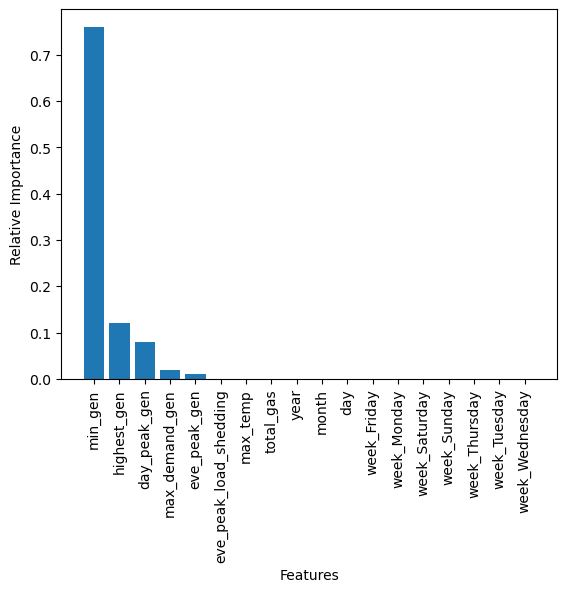
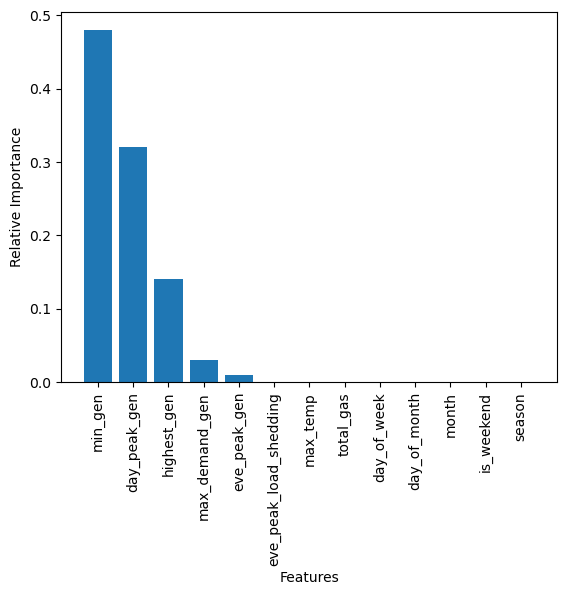
generated LSTM graphs for imp features

diff --git a/src/prediction_with_lstm_2.py b/src/prediction_with_lstm_2.py
@@ -140,8 +140,7 @@ print(len(train), len(test))
 print(train.shape, test.shape)
 
 # scaling the features for better result
-f_columns = ['max_demand_gen', 'highest_gen', 'min_gen', 'day_peak_gen', 'eve_peak_gen', 'eve_peak_load_shedding',
-             'max_temp', 'total_gas', 'day_of_week', 'day_of_month', 'month', 'is_weekend', 'season']
+f_columns = ['max_demand_gen', 'highest_gen', 'min_gen', 'day_peak_gen', 'eve_peak_gen']
 
 f_transformer = RobustScaler()
 total_energy_transformer = RobustScaler()
@@ -211,7 +210,7 @@ plt.title('training and validation loss')
 plt.xlabel('epochs')
 plt.ylabel('loss')
 plt.legend()
-plt.savefig('../assets_lstm_2/lstm_loss.png', bbox_inches='tight')
+plt.savefig('../assets_lstm_2/lstm_loss_all_feat.png', bbox_inches='tight')
 plt.show()
 
 y_pred = model.predict(X_test)
@@ -223,13 +222,30 @@ print('MSE: ', metrics.mean_squared_error(y_test, y_pred))
 print('RMSE: ', np.sqrt(metrics.mean_squared_error(y_test, y_pred)))
 print('MAPE: ', metrics.mean_absolute_error(y_test, y_pred, multioutput='uniform_average'))
 
+# plt.plot(np.arange(0, len(y_train)), y_train_inv.flatten(), 'g', label="history")
+# plt.plot(np.arange(len(y_train), len(y_train) + len(y_test)), y_test_inv.flatten(), marker='.', label="true")
+# plt.plot(np.arange(len(y_train), len(y_train) + len(y_test)), y_pred_inv.flatten(), 'r', label="prediction")
+# plt.ylabel('electricity consumption (MKWh)')
+# plt.xlabel('time step')
+# plt.legend()
+# plt.savefig('../assets_lstm_2/lstm_test_vs_train_all_feat.png', bbox_inches='tight')
+# plt.show()
+#
+# plt.plot(y_test_inv.flatten(), marker='.', label="true")
+# plt.plot(y_pred_inv.flatten(), 'r', label="prediction")
+# plt.ylabel('electricity Consumption (MKWh)')
+# plt.xlabel('time step')
+# plt.legend()
+# plt.savefig('../assets_lstm_2/total_test_vs_train_all_feat.png', bbox_inches='tight')
+# plt.show()
+
 plt.plot(np.arange(0, len(y_train)), y_train_inv.flatten(), 'g', label="history")
 plt.plot(np.arange(len(y_train), len(y_train) + len(y_test)), y_test_inv.flatten(), marker='.', label="true")
 plt.plot(np.arange(len(y_train), len(y_train) + len(y_test)), y_pred_inv.flatten(), 'r', label="prediction")
 plt.ylabel('electricity consumption (MKWh)')
 plt.xlabel('time step')
 plt.legend()
-plt.savefig('../assets_lstm_2/lstm_test_vs_train_20.png', bbox_inches='tight')
+plt.savefig('../assets_lstm_2/lstm_test_vs_train_imp_feat.png', bbox_inches='tight')
 plt.show()
 
 plt.plot(y_test_inv.flatten(), marker='.', label="true")
@@ -237,5 +253,5 @@ plt.plot(y_pred_inv.flatten(), 'r', label="prediction")
 plt.ylabel('electricity Consumption (MKWh)')
 plt.xlabel('time step')
 plt.legend()
-plt.savefig('../assets_lstm_2/total_test_vs_train.png', bbox_inches='tight')
+plt.savefig('../assets_lstm_2/total_test_vs_train_imp_feat.png', bbox_inches='tight')
 plt.show()
